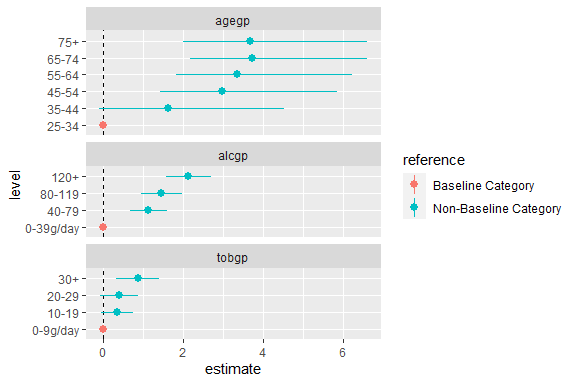
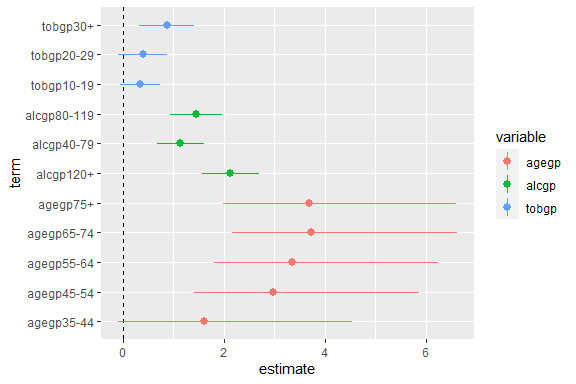
added colour coef plot

diff --git a/readme/README.md b/readme/README.md
@@ -156,12 +156,48 @@ ggplot(data = d0,
 
 ## Enhanced coefficient plots
 
-Using the additional columns from `tidy_categroical()` the coefficient
-plot can be enhanced to include the reference category, allowing the
-reader to better grasp the meaning of the parameter estimates in each
-categorical variable. Using `ggforce::facet_col()` the terms of each
-variable can be separated to further improve the presentation of the
-coefficient plot.
+The additional columns from `tidy_categroical()` can be used to group
+together terms from the same categorical variable by setting `colour =
+variable`
+
+``` r
+d0 <- m0 %>%
+  tidy(conf.int = TRUE) %>%
+  tidy_categorical(m = m0, include_reference = FALSE) %>%
+  slice(-1)
+
+d0 %>%
+  select(-(3:5))
+#> # A tibble: 11 x 8
+#>    term      estimate conf.low conf.high variable level  effect reference       
+#>    <chr>        <dbl>    <dbl>     <dbl> <chr>    <fct>  <chr>  <chr>           
+#>  1 agegp35-~    1.61   -0.100      4.54  agegp    35-44  main   Non-Baseline Ca~
+#>  2 agegp45-~    2.98    1.41       5.86  agegp    45-54  main   Non-Baseline Ca~
+#>  3 agegp55-~    3.36    1.81       6.24  agegp    55-64  main   Non-Baseline Ca~
+#>  4 agegp65-~    3.73    2.16       6.62  agegp    65-74  main   Non-Baseline Ca~
+#>  5 agegp75+     3.68    1.99       6.61  agegp    75+    main   Non-Baseline Ca~
+#>  6 tobgp10-~    0.341  -0.0644     0.742 tobgp    10-19  main   Non-Baseline Ca~
+#>  7 tobgp20-~    0.396  -0.0935     0.872 tobgp    20-29  main   Non-Baseline Ca~
+#>  8 tobgp30+     0.868   0.319      1.41  tobgp    30+    main   Non-Baseline Ca~
+#>  9 alcgp40-~    1.12    0.665      1.60  alcgp    40-79  main   Non-Baseline Ca~
+#> 10 alcgp80-~    1.45    0.939      1.97  alcgp    80-119 main   Non-Baseline Ca~
+#> 11 alcgp120+    2.12    1.56       2.69  alcgp    120+   main   Non-Baseline Ca~
+
+ggplot(data = d0,
+        mapping = aes(x = term, y = estimate, ymin = conf.low, ymax = conf.high,
+                      colour = variable)) +
+   coord_flip() +
+   geom_hline(yintercept = 0, linetype = "dashed") +
+   geom_pointrange()
+```
+
+<img src="readme/fig/unnamed-chunk-6-1.png" width="100%" />
+
+The additional rows from `tidy_categroical()` can be used to include the
+reference categories in a coefficient plot, allowing the reader to
+better grasp the meaning of the parameter estimates in each categorical
+variable. Using `ggforce::facet_col()` the terms of each variable can be
+separated to further improve the presentation of the coefficient plot.
 
 ``` r
 d0 <- m0 %>%
@@ -199,7 +235,7 @@ ggplot(data = d0,
    geom_pointrange()
 ```
 
-<img src="readme/fig/unnamed-chunk-6-1.png" width="100%" />
+<img src="readme/fig/unnamed-chunk-7-1.png" width="100%" />
 
 Note the switch of the `x` aesthetic to the `level` column rather than
 `term`.
@@ -218,7 +254,7 @@ ggplot(data = d0,
  theme(axis.text.x = element_text(angle = 45, hjust = 1))
 ```
 
-<img src="readme/fig/unnamed-chunk-7-1.png" width="100%" />
+<img src="readme/fig/unnamed-chunk-8-1.png" width="100%" />
 
 ## Interactions
 
@@ -294,7 +330,7 @@ ggplot(data = d1,
    geom_pointrange()
 ```
 
-<img src="readme/fig/unnamed-chunk-10-1.png" width="100%" />
+<img src="readme/fig/unnamed-chunk-11-1.png" width="100%" />
 
 The empty levels can be dropped by filtering on the `n_level` column for
 categories with more than zero observations and not `NA` in term column.
@@ -310,6 +346,6 @@ ggplot(data = d1 %>%
    geom_pointrange()
 ```
 
-<img src="readme/fig/unnamed-chunk-11-1.png" width="100%" />
+<img src="readme/fig/unnamed-chunk-12-1.png" width="100%" />
 
     #> [1] TRUE

diff --git a/README.md b/README.md
@@ -297,11 +297,11 @@ ggplot(data = d1,
 <img src="readme/fig/unnamed-chunk-10-1.png" width="100%" />
 
 The empty levels can be dropped by filtering on the `n_level` column for
-categories with more than zero observations.
+categories with more than zero observations and not `NA` in term column.
 
 ``` r
 ggplot(data = d1 %>% 
-         filter(n_level > 0),
+         filter(n_level > 0 | !is.na(term)),
         mapping = aes(x = level, y = estimate, colour = reference,
                       ymin = conf.low, ymax = conf.high)) +
    facet_col(facets = vars(variable), scales = "free_y", space = "free") +
